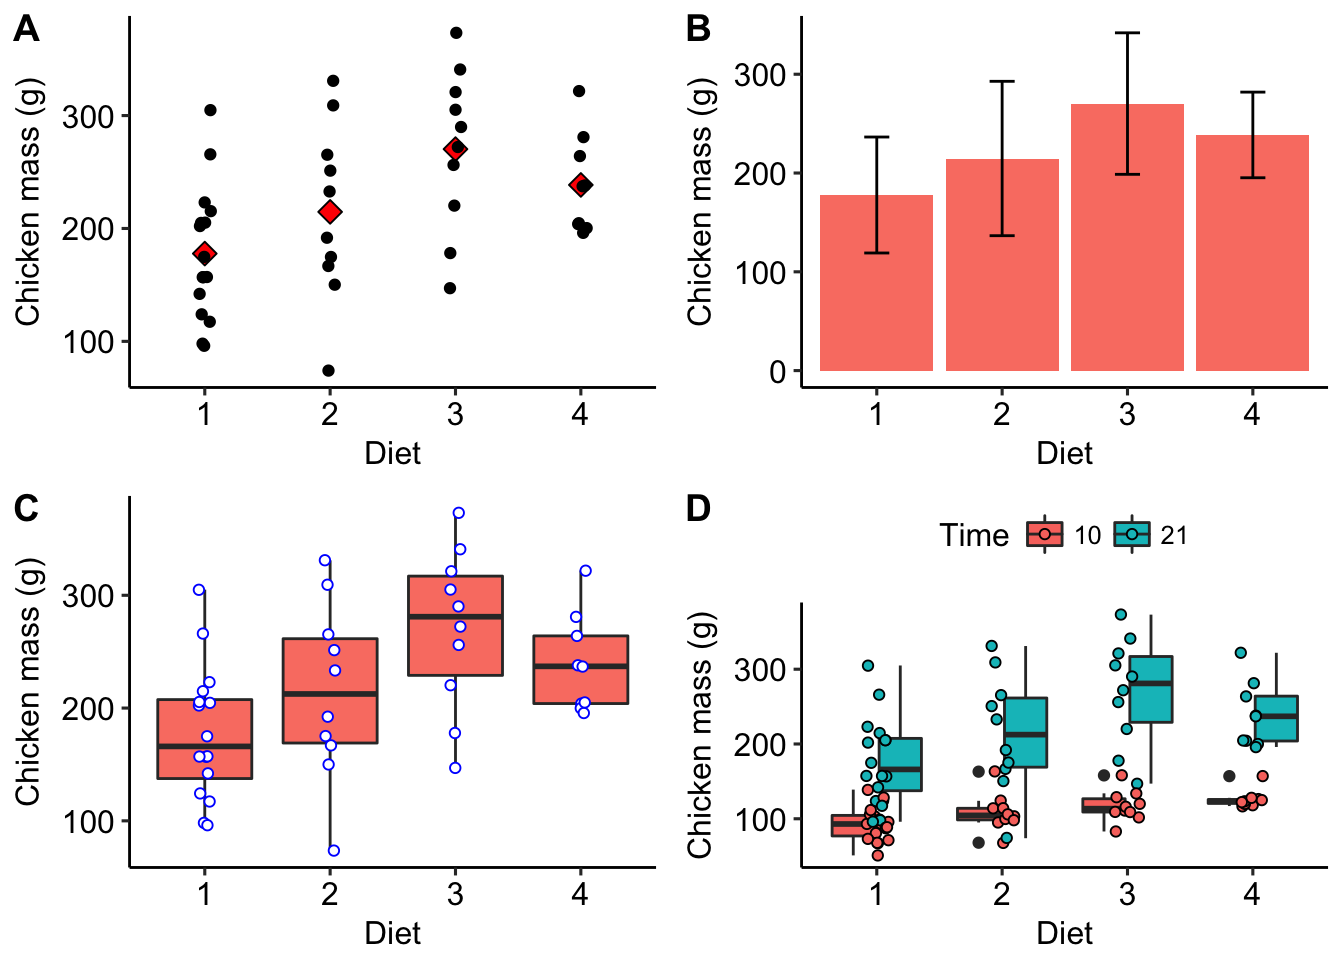
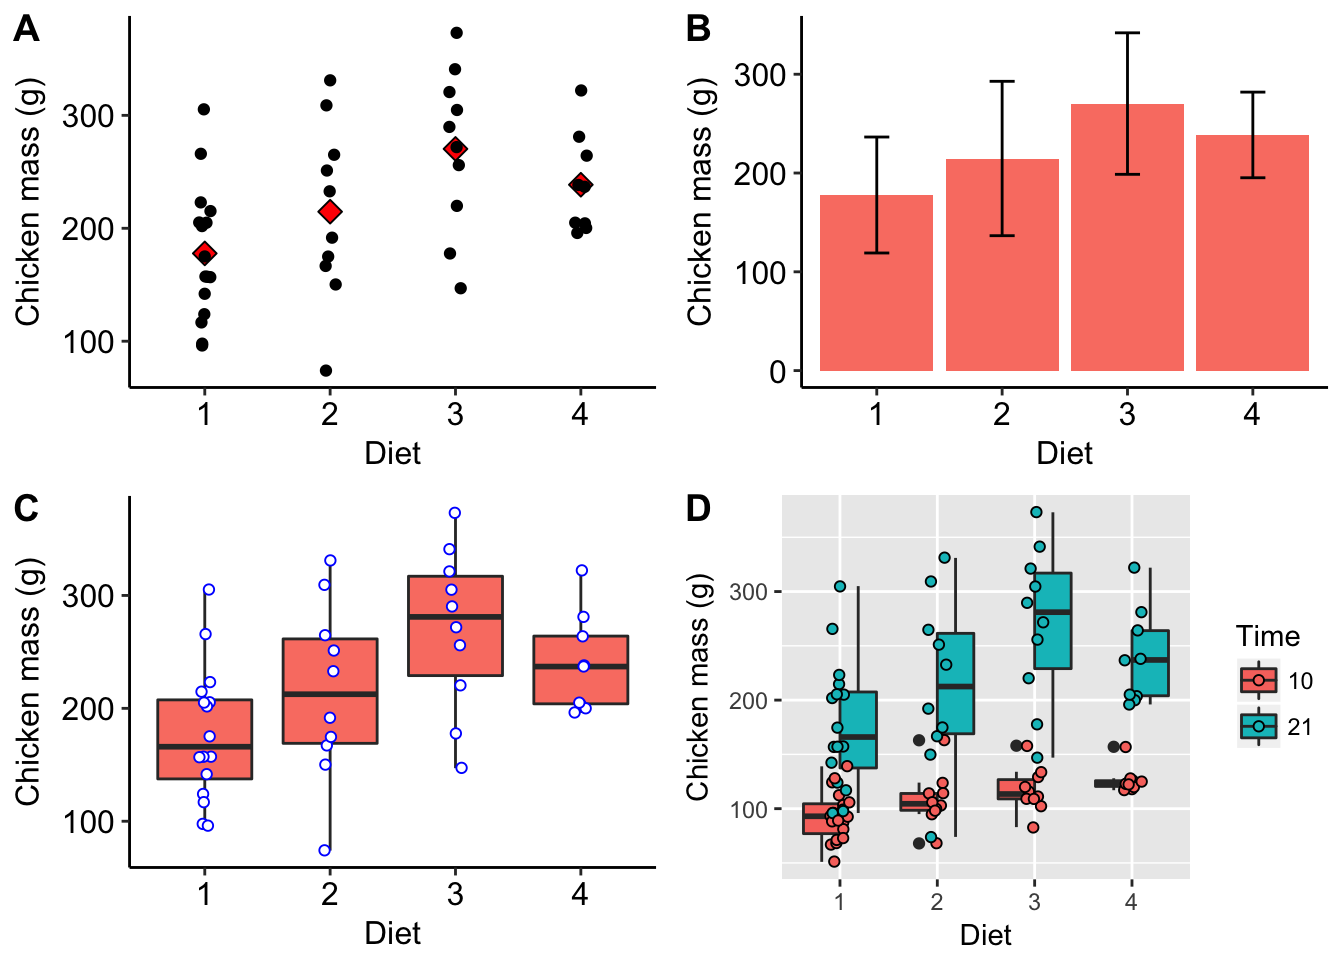
Bringing edits up to date.

diff --git a/_out/descriptive-statistics-by-group.html b/_out/descriptive-statistics-by-group.html
@@ -240,7 +240,7 @@ grp_stat</code></pre></div>
 <span class="st">  </span><span class="kw">ggplot</span>(<span class="kw">aes</span>(<span class="dt">x =</span> Diet, <span class="dt">y =</span> weight, <span class="dt">fill =</span> <span class="kw">as.factor</span>(Time))) <span class="op">+</span>
 <span class="st">  </span><span class="kw">geom_boxplot</span>() <span class="op">+</span>
 <span class="st">  </span><span class="kw">geom_jitter</span>(<span class="dt">shape =</span> <span class="dv">21</span>, <span class="dt">width =</span> <span class="fl">0.1</span>) <span class="op">+</span>
-<span class="st">  </span><span class="kw">labs</span>(<span class="dt">y =</span> <span class="st">&quot;Chicken mass (g)&quot;</span>, <span class="dt">fill =</span> <span class="st">&quot;Time&quot;</span>) <span class="op">+</span><span class="st"> </span><span class="kw">theme_pubr</span>()</code></pre></div>
+<span class="st">  </span><span class="kw">labs</span>(<span class="dt">y =</span> <span class="st">&quot;Chicken mass (g)&quot;</span>, <span class="dt">fill =</span> <span class="st">&quot;Time&quot;</span>)</code></pre></div>
 <div class="sourceCode"><pre class="sourceCode r"><code class="sourceCode r"><span class="kw">ggarrange</span>(plt1, plt2, plt3, plt4, <span class="dt">ncol =</span> <span class="dv">2</span>, <span class="dt">nrow =</span> <span class="dv">2</span>, <span class="dt">labels =</span> <span class="st">&quot;AUTO&quot;</span>)</code></pre></div>
 <div class="figure"><span id="fig:unnamed-chunk-15"></span>
 <img src="03-discriptive_files/figure-html/unnamed-chunk-15-1.png" alt="A) Scatterplot of the mean and raw chicken mass values. B) Bar graph of the chicken mass values, showing 'whiskers' indicating ±1 SD. C) Box and whisker plot of the chicken mass data. Please see the help file for `geom_boxplot()` for what the graph components mean." width="672" />

diff --git a/_out/style-and-code-conventions.html b/_out/style-and-code-conventions.html
@@ -182,8 +182,8 @@ code > span.in { color: #60a0b0; font-weight: bold; font-style: italic; } /* Inf
 <li>Commands entered onto the R command line (console) and the output that is returned will be shown in a code block, which is a light grey background with code font. The commands entered start at the beginning of a line and the output it produces is preceded by <code>R&gt;</code>, like so:</li>
 </ul>
 <div class="sourceCode"><pre class="sourceCode r"><code class="sourceCode r"><span class="kw">rnorm</span>(<span class="dt">n =</span> <span class="dv">10</span>, <span class="dt">mean =</span> <span class="dv">0</span>, <span class="dt">sd =</span> <span class="dv">13</span>)</code></pre></div>
-<pre><code>R&gt;  [1] 20.740313 33.228179 22.949770 21.776450 25.027786 10.426938  2.456074
-R&gt;  [8] -2.101046  7.080193 11.606892</code></pre>
+<pre><code>R&gt;  [1]  -1.382894   6.623550  10.016745   4.001517 -14.205712   5.993953
+R&gt;  [7]  -2.819659  18.533080  -7.519011  16.895566</code></pre>
 <p>Consult these resources for more about R code style :</p>
 <ul>
 <li><a href="https://google.github.io/styleguide/Rguide.xml">Google’s R style guide</a></li>

diff --git a/_out/about-this-document.html b/_out/about-this-document.html
@@ -196,14 +196,14 @@ R&gt; locale:
 R&gt; [1] en_US.UTF-8/en_US.UTF-8/en_US.UTF-8/C/en_US.UTF-8/en_US.UTF-8
 R&gt; 
 R&gt; attached base packages:
-R&gt; [1] stats     graphics  grDevices utils     datasets  base     
+R&gt; [1] stats     grDevices utils     datasets  graphics  base     
 R&gt; 
 R&gt; loaded via a namespace (and not attached):
 R&gt;  [1] Rcpp_0.12.15    bookdown_0.6    png_0.1-7       digest_0.6.14  
 R&gt;  [5] rprojroot_1.3-2 backports_1.1.2 magrittr_1.5    evaluate_0.10.1
 R&gt;  [9] highr_0.6       stringi_1.1.6   rmarkdown_1.8   tools_3.4.3    
 R&gt; [13] stringr_1.2.0   xfun_0.1        yaml_2.1.16     compiler_3.4.3 
-R&gt; [17] htmltools_0.3.6 knitr_1.18      methods_3.4.3</code></pre>
+R&gt; [17] htmltools_0.3.6 knitr_1.19      methods_3.4.3</code></pre>
 
 </div>
 <!-- </div> -->

diff --git a/_out/01-intro.md b/_out/01-intro.md
@@ -73,8 +73,8 @@ rnorm(n = 10, mean = 0, sd = 13)
 ```
 
 ```
-R>  [1] 20.740313 33.228179 22.949770 21.776450 25.027786 10.426938  2.456074
-R>  [8] -2.101046  7.080193 11.606892
+R>  [1]  -1.382894   6.623550  10.016745   4.001517 -14.205712   5.993953
+R>  [7]  -2.819659  18.533080  -7.519011  16.895566
 ```
 
 Consult these resources for more about R code style :
@@ -128,14 +128,14 @@ R> locale:
 R> [1] en_US.UTF-8/en_US.UTF-8/en_US.UTF-8/C/en_US.UTF-8/en_US.UTF-8
 R> 
 R> attached base packages:
-R> [1] stats     graphics  grDevices utils     datasets  base     
+R> [1] stats     grDevices utils     datasets  graphics  base     
 R> 
 R> loaded via a namespace (and not attached):
 R>  [1] Rcpp_0.12.15    bookdown_0.6    png_0.1-7       digest_0.6.14  
 R>  [5] rprojroot_1.3-2 backports_1.1.2 magrittr_1.5    evaluate_0.10.1
 R>  [9] highr_0.6       stringi_1.1.6   rmarkdown_1.8   tools_3.4.3    
 R> [13] stringr_1.2.0   xfun_0.1        yaml_2.1.16     compiler_3.4.3 
-R> [17] htmltools_0.3.6 knitr_1.18      methods_3.4.3
+R> [17] htmltools_0.3.6 knitr_1.19      methods_3.4.3
 ```
 
 

diff --git a/_out/03-discriptive.md b/_out/03-discriptive.md
@@ -370,7 +370,7 @@ plt4 <- chicks %>%
   ggplot(aes(x = Diet, y = weight, fill = as.factor(Time))) +
   geom_boxplot() +
   geom_jitter(shape = 21, width = 0.1) +
-  labs(y = "Chicken mass (g)", fill = "Time") + theme_pubr()
+  labs(y = "Chicken mass (g)", fill = "Time")
 ```
 
 
